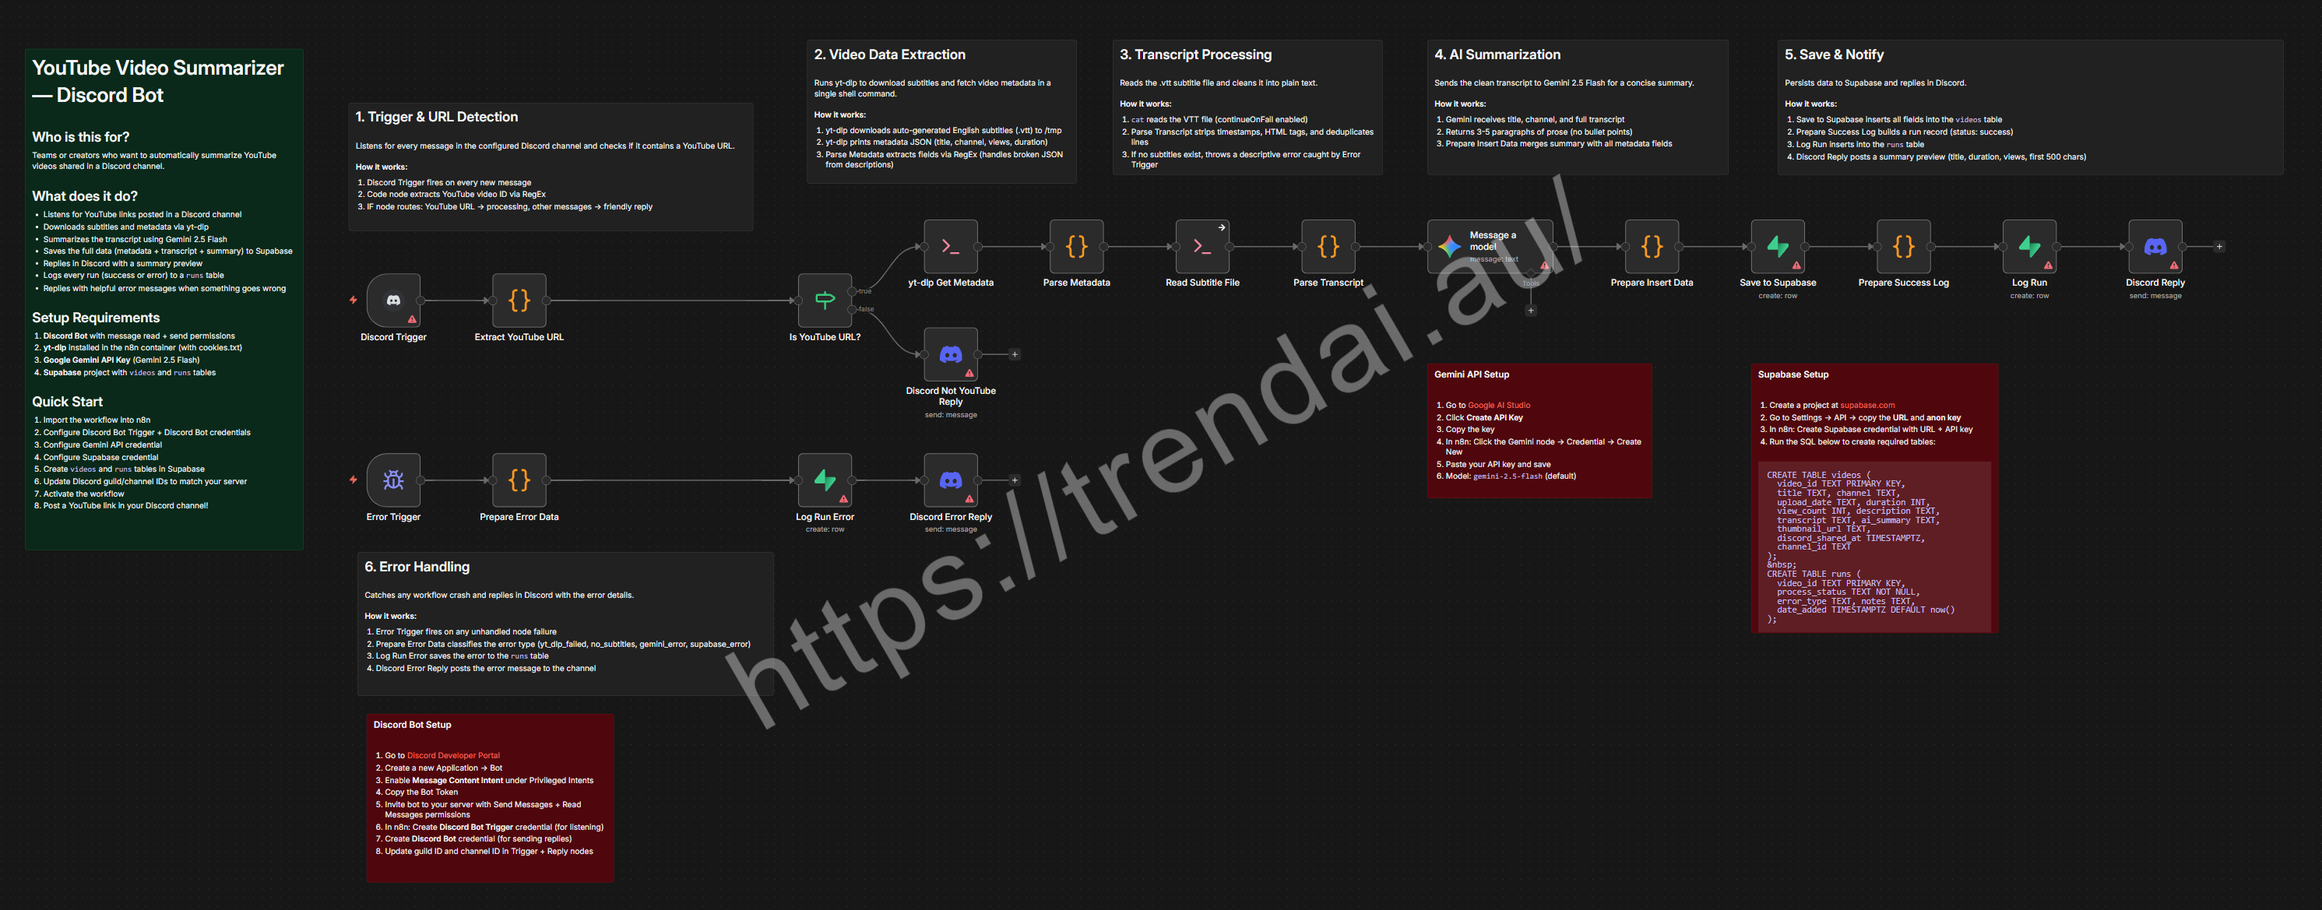
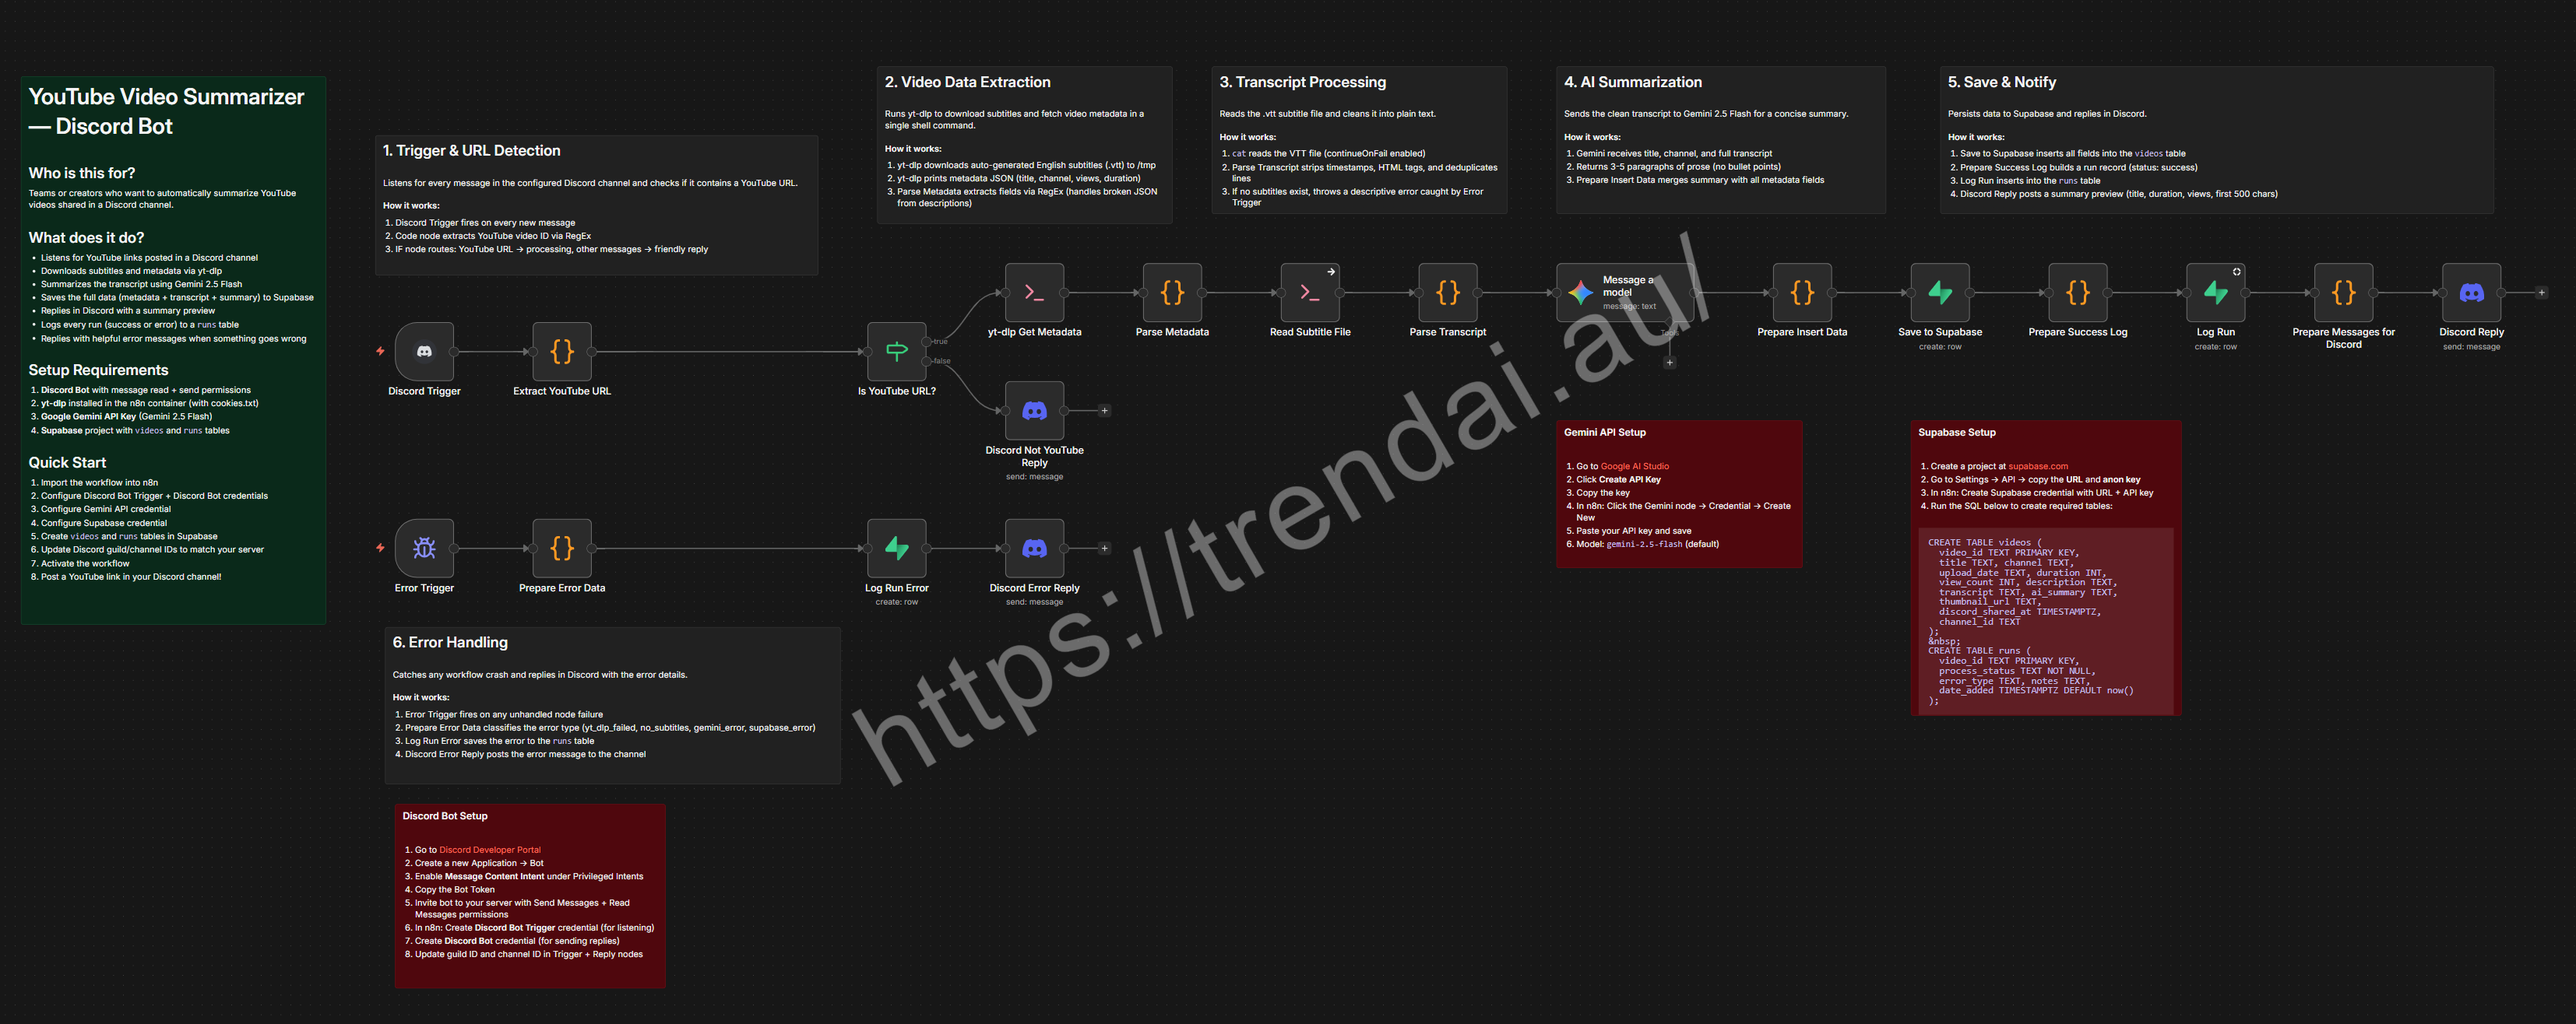
Update YouTube Video Summarizer Discord workflow
- Add message chunking node for Discord's 2000 char limit
- Update Gemini prompt to TLDR + detailed summary format
- Sanitize credentials and personal IDs
- Refresh preview image with watermark

diff --git a/workflows/youtube-video-summarizer-discord/README.md b/workflows/youtube-video-summarizer-discord/README.md
@@ -37,10 +37,11 @@ When a user pastes a YouTube URL into a Discord channel, the workflow:
 1. **Detects** the YouTube URL using RegEx (supports youtube.com, youtu.be, shorts, live)
 2. **Extracts** the video's subtitles and metadata using yt-dlp
 3. **Cleans** the raw VTT subtitle file into plain-text transcript
-4. **Summarizes** the transcript using an LLM (Gemini 2.5 Flash) into a concise 3–5 paragraph summary
+4. **Summarizes** the transcript using an LLM (Gemini 2.5 Flash) into a TLDR + detailed summary
 5. **Stores** the video metadata, full transcript, and AI summary in a Supabase database
 6. **Logs** every run (success or error) to a separate `runs` table for tracking
-7. **Replies** in Discord with the video title, stats, and a summary preview
+7. **Chunks** long summaries into Discord-safe messages (≤2000 characters each)
+8. **Replies** in Discord with the video title, stats, and the full summary
 
 Non-YouTube messages get a friendly "not a YouTube link" reply. Errors are caught, classified, logged to the database, and reported back to Discord.
 
@@ -54,7 +55,7 @@ Non-YouTube messages get a friendly "not a YouTube link" reply. Errors are caugh
 Discord Trigger → Extract YouTube URL → Is YouTube URL?
   ├─ Yes → yt-dlp Get Metadata → Parse Metadata → Read Subtitle File → Parse Transcript
   │        → Message a model (Gemini) → Prepare Insert Data → Save to Supabase
-  │        → Prepare Success Log → Log Run → Discord Reply
+  │        → Prepare Success Log → Log Run → Prepare Messages for Discord → Discord Reply
   └─ No  → Discord Not YouTube Reply
 ```
 
@@ -77,17 +78,18 @@ Error Trigger → Prepare Error Data → Log Run Error → Discord Error Reply
 | 5 | Parse Metadata | Code | Extracts title, channel, views, duration via RegEx |
 | 6 | Read Subtitle File | Execute Command | Reads the .vtt file (continueOnFail enabled) |
 | 7 | Parse Transcript | Code | Strips VTT timestamps/tags, deduplicates lines |
-| 8 | Message a model | Google Gemini | Sends transcript to Gemini 2.5 Flash for summarization |
+| 8 | Message a model | Google Gemini | Sends transcript to Gemini 2.5 Flash for TLDR + detailed summary |
 | 9 | Prepare Insert Data | Code | Merges summary with all metadata fields |
 | 10 | Save to Supabase | Supabase | Inserts full record into `videos` table |
 | 11 | Prepare Success Log | Code | Builds success run record |
 | 12 | Log Run | Supabase | Inserts into `runs` table |
-| 13 | Discord Reply | Discord | Posts summary preview to channel |
-| 14 | Discord Not YouTube Reply | Discord | Replies when message isn't a YouTube link |
-| 15 | Error Trigger | Error Trigger | Catches any unhandled node failure |
-| 16 | Prepare Error Data | Code | Classifies error type and extracts context |
-| 17 | Log Run Error | Supabase | Logs error to `runs` table |
-| 18 | Discord Error Reply | Discord | Posts error message to channel |
+| 13 | Prepare Messages for Discord | Code | Chunks long summaries into Discord-safe messages (≤2000 chars) |
+| 14 | Discord Reply | Discord | Posts summary preview to channel |
+| 15 | Discord Not YouTube Reply | Discord | Replies when message isn't a YouTube link |
+| 16 | Error Trigger | Error Trigger | Catches any unhandled node failure |
+| 17 | Prepare Error Data | Code | Classifies error type and extracts context |
+| 18 | Log Run Error | Supabase | Logs error to `runs` table |
+| 19 | Discord Error Reply | Discord | Posts error message to channel |
 
 ---
 
